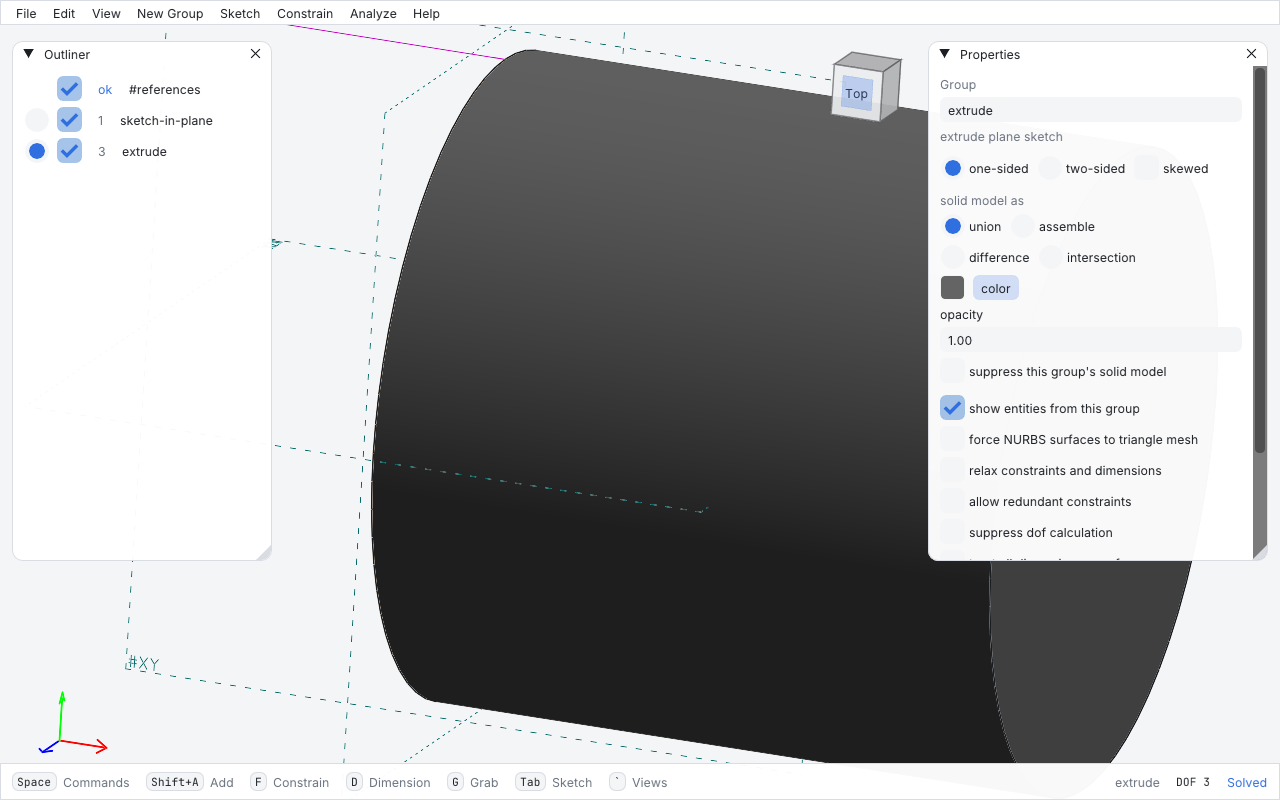
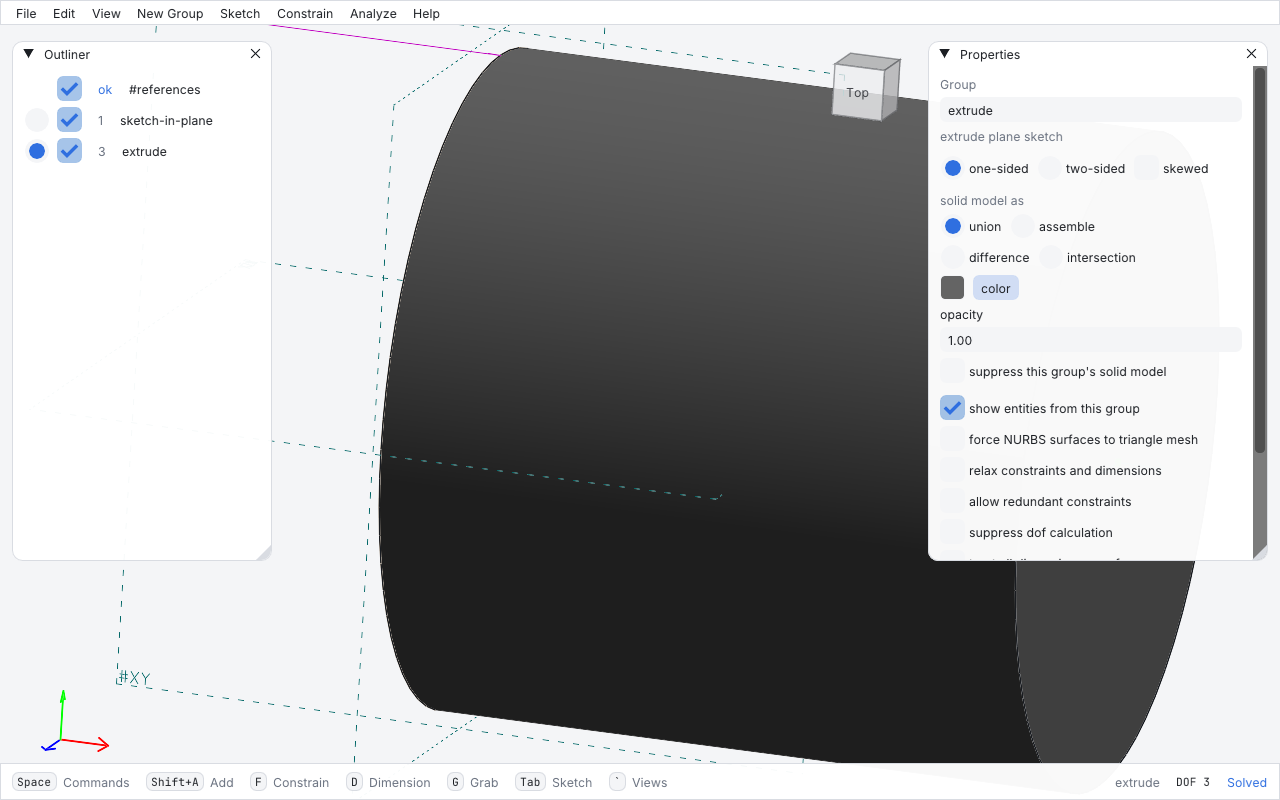
NG: the view cube is 80% opaque until the mouse is on it.
As FreeCAD's navigation cube: it hides less of the model while idle and
turns solid under the mouse. The bottom-left X/Y/Z axes stay: they are the
reference planes' normals, which can be selected for constraints.

diff --git a/src/ui/viewcube.cpp b/src/ui/viewcube.cpp
@@ -66,6 +66,9 @@ std::function<void()> DrawViewCube() {
     Vector right = SS.GW.projRight, up = SS.GW.projUp;
 
     ImGui::InvisibleButton("##viewcube", ImVec2(Box, Box));
+    // See-through until the mouse is on it, so it hides little of the model (as FreeCAD's).
+    bool  over    = ImGui::IsItemHovered() || ImGui::IsItemActive();
+    float opacity = over ? 0.97f : 0.8f;
     ImGuiIO &io = ImGui::GetIO();
     Point2d  mouse = Point2d::From(io.MousePos.x, io.MousePos.y);
     std::optional<Vector> hovered;
@@ -86,8 +89,8 @@ std::function<void()> DrawViewCube() {
     ImVec4      face   = ImGui::GetStyleColorVec4(ImGuiCol_FrameBg);
     ImVec4      text   = ImGui::GetStyleColorVec4(ImGuiCol_Text);
     // Edges in the text colour, so the cube reads in either theme.
-    ImU32       border = ImGui::GetColorU32(ImGuiCol_Text, 0.45f);
-    face.w = 0.92f;
+    ImU32       border = ImGui::GetColorU32(ImGuiCol_Text, 0.45f * opacity);
+    face.w = opacity;
     for(const CubeFace &f : ViewCubeFaces(right, up, gCenter, CubeSize)) {
         if(!f.visible) continue;
         // Faces turned away from the viewer are drawn a little darker.
@@ -100,7 +103,7 @@ std::function<void()> DrawViewCube() {
             ImVec2 mid((q[0].x + q[2].x) / 2, (q[0].y + q[2].y) / 2);
             ImVec2 ts = ImGui::CalcTextSize(f.label.c_str());
             ImVec4 t  = text;
-            t.w       = std::min(1.0f, (float)f.facing * 1.4f);
+            t.w       = std::min(1.0f, (float)f.facing * 1.4f) * opacity;
             dl->AddText(ImVec2(mid.x - ts.x / 2, mid.y - ts.y / 2), ImGui::GetColorU32(t),
                         f.label.c_str());
         }

diff --git a/AGENTS.md b/AGENTS.md
@@ -115,7 +115,9 @@ Rules:
   icon buttons for every old-toolbar tool; NG never draws the custom toolbar.)
 - **View cube** (added 2026-10-17, as in Fusion 360, Onshape and FreeCAD): top right of the
   viewport, left of any panel there. Click a face to look at it, an edge or a corner to look
-  between its faces (Z up, as the numpad views); drag it to orbit.
+  between its faces (Z up, as the numpad views); drag it to orbit. 80% opaque until the mouse
+  is on it. It does not replace SolveSpace's X/Y/Z axes in the bottom-left corner: those are the
+  reference planes' normals, selectable for constraints (decided with the owner, 2026-10-17).
 
 **Typed values become constraints.** While a modal tool is active, typed numbers fill HUD fields
 (`Tab` cycles, `Enter` confirms, `Esc` or right-click cancels). Unlike Blender, a typed value

diff --git a/docs/owner-checks.md b/docs/owner-checks.md
@@ -69,8 +69,10 @@ Screenshots: `docs/owner-review/viewcube-dark.png`, `viewcube-light.png`.
       between its faces; the part under the mouse is highlighted first.
 - [ ] Dragging the cube orbits the view; the drag never selects or moves anything.
 - [ ] It stays left of the Properties panel and moves into the corner when Properties closes.
+- [ ] It is 80% opaque until the mouse is on it, then solid.
 - [ ] Clicks just outside the cube but inside its square (the corners of its area) are taken
       by the cube, not the canvas. Tell me if you notice it.
+- The bottom-left X/Y/Z axes stay: they are the reference normals, selectable for constraints.
 
 ## Decisions waiting for the owner
 - Merge order: `ng/m1a-shell` > `ng/m1b-interaction` > `ng/m1-ui-harness` > `ng/m1c-panels` >
